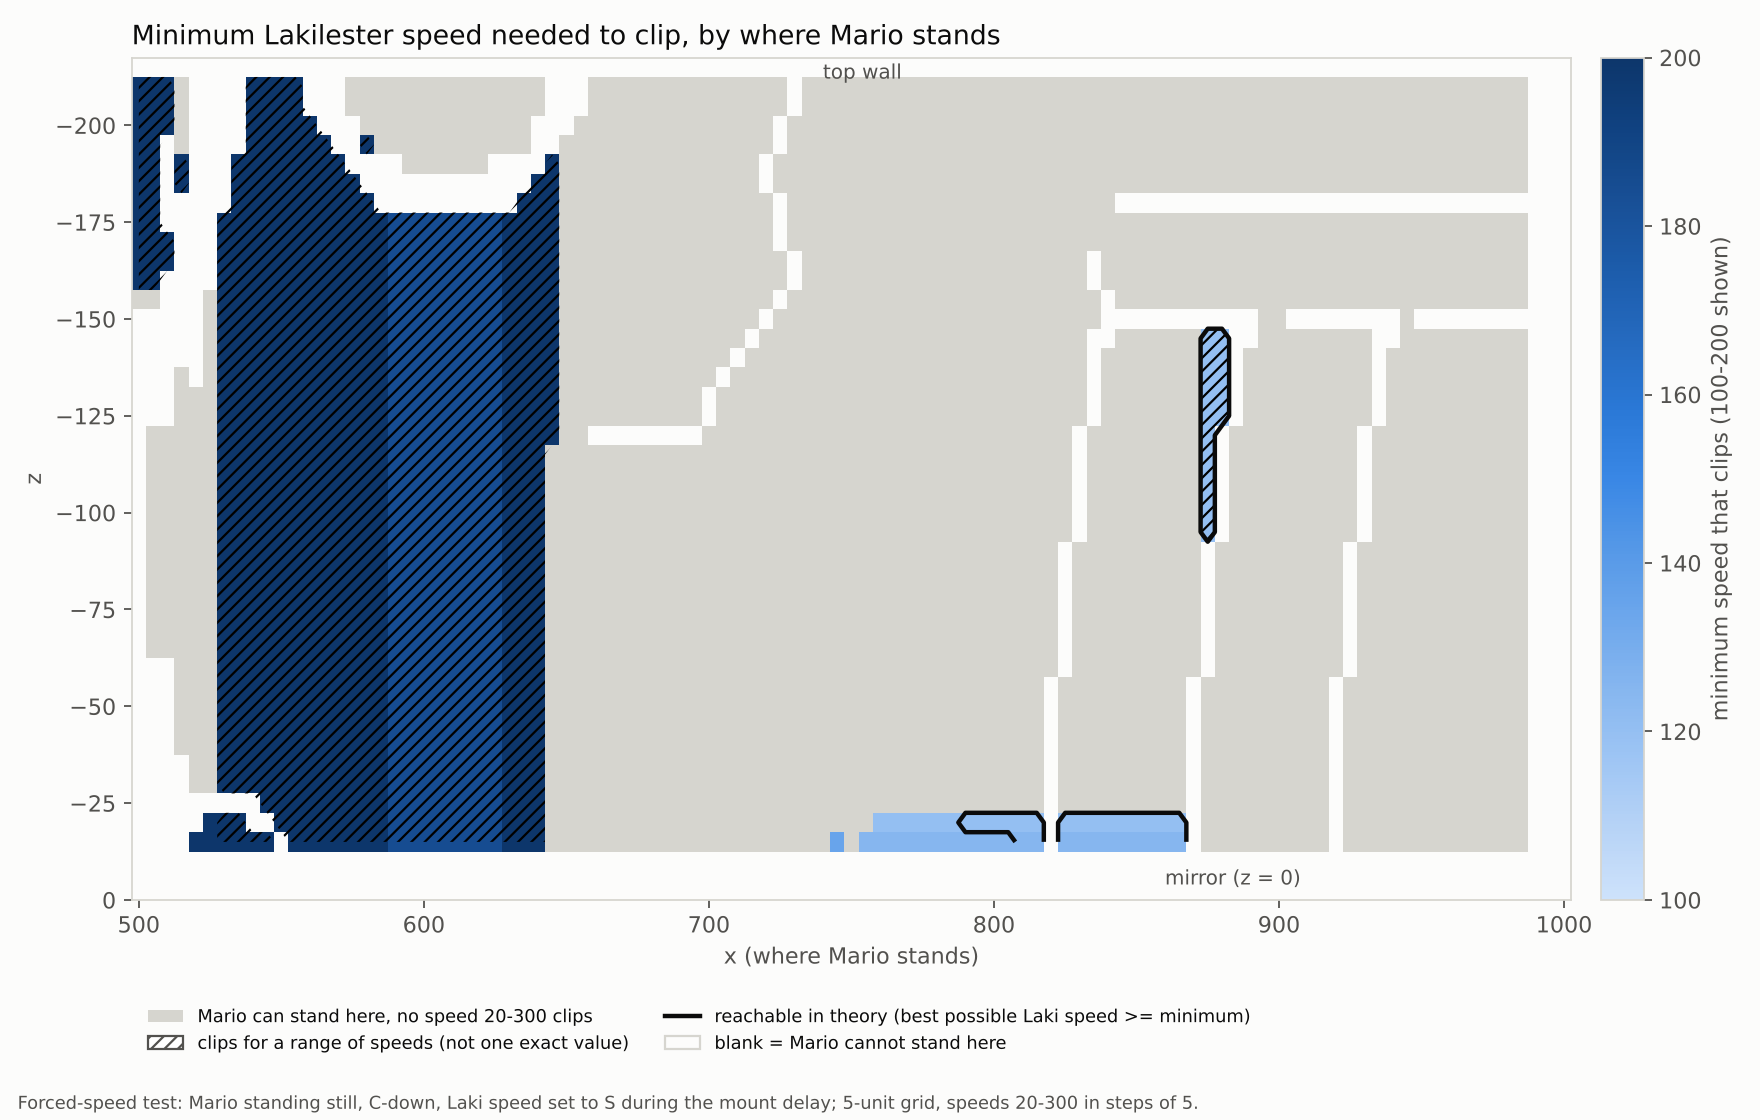
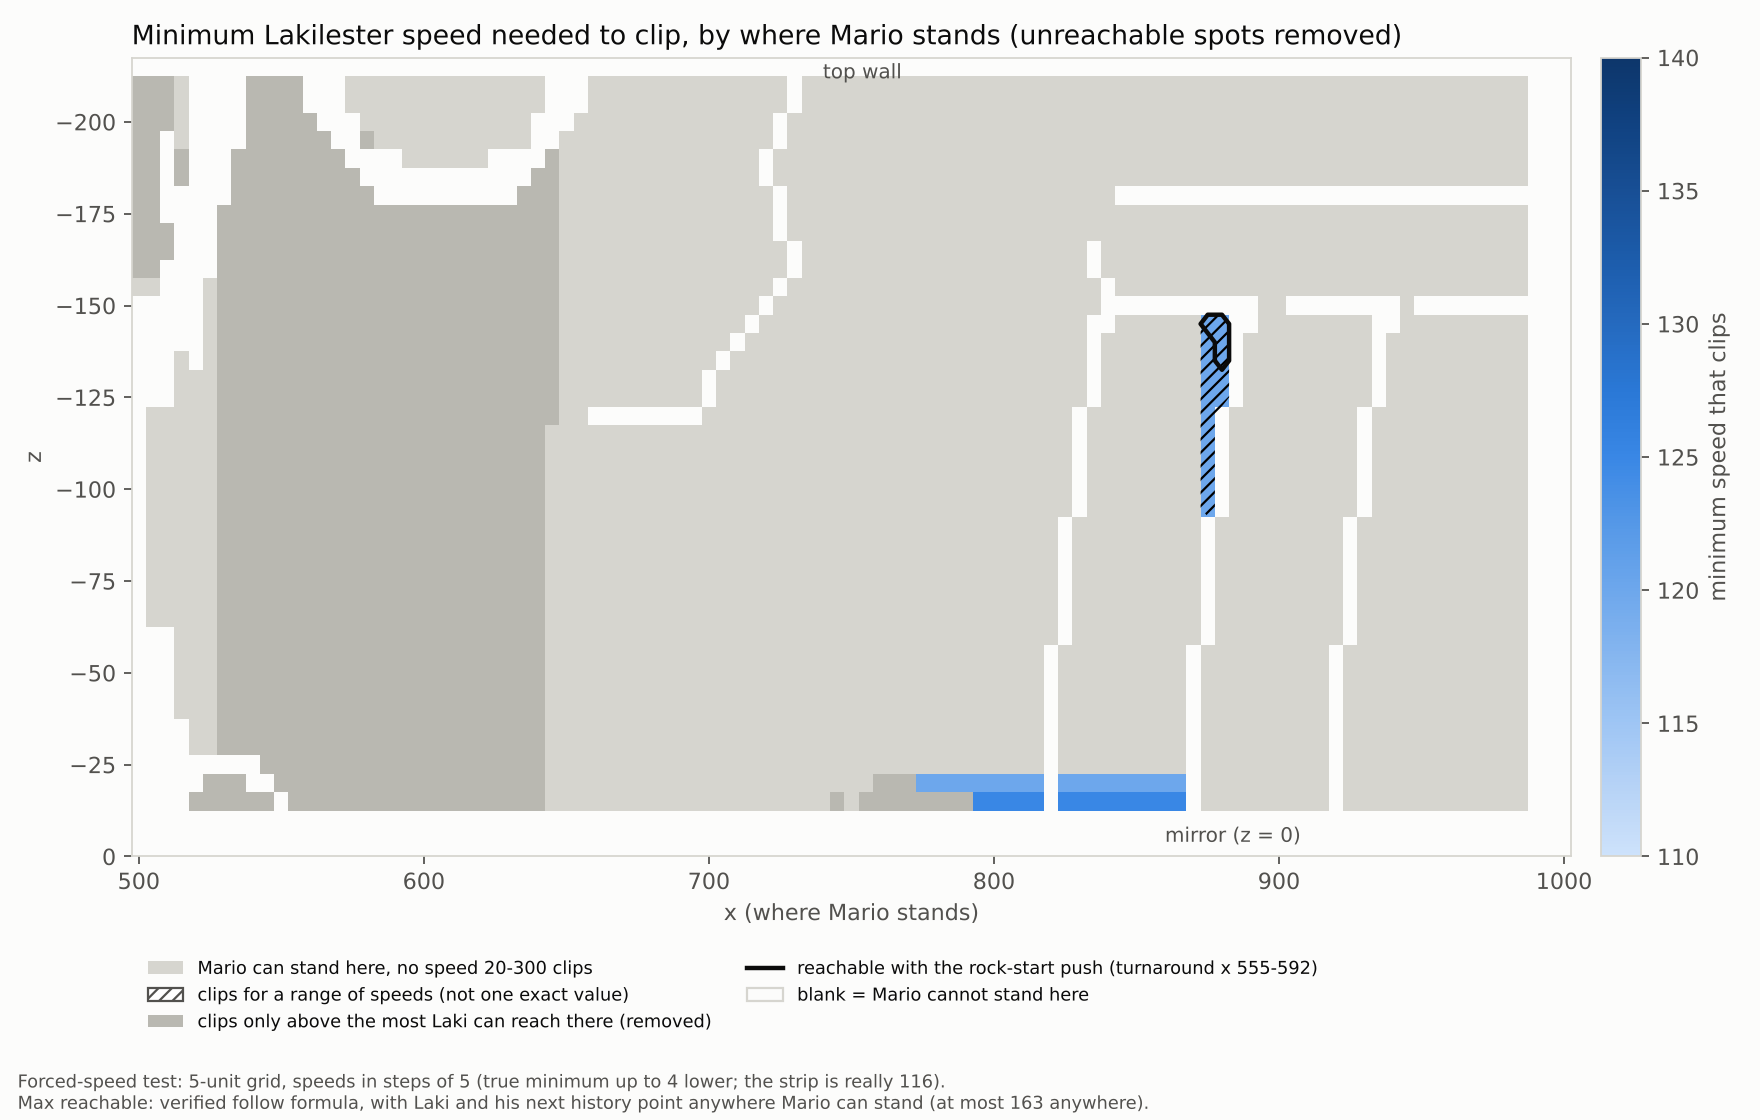
reverse mirror clip: remove spots above the maximum reachable Laki speed from the map
Claude-Session: https://claude.ai/code/session_01PAYGgAFM6inphVCTM8p258

diff --git a/pm-kooper-bot/minspeed_map.py b/pm-kooper-bot/minspeed_map.py
@@ -25,7 +25,9 @@ for r in rows:
             for a, b in zip(S, S[1:]):
                 run = run + 1 if b == a + 5 else 1; best = max(best, run)
             RANGE[j, i] = best >= 4
-# theoretical best speed for Mario at each spot
+# theoretical best speed for Mario at each spot: Lakilester can only turn around at a point of Mario's history, so
+# both his position L and his next history point H range over spots where Mario can stand (5-unit grid). For a given
+# L the best H is the farthest one (dmax): speed = 0.25*dM + dmax/16 if dmax > dM else 0.25*dM.
 tris = [t['v'] for c in json.load(open(col))['colliders'] for t in c['tris'] if t['n'][1] > 0.5]
 def has_floor(x, z):
     for (x1, _, z1), (x2, _, z2), (x3, _, z3) in tris:
@@ -34,19 +36,24 @@ def has_floor(x, z):
         a = ((z2 - z3) * (x - x3) + (x3 - x2) * (z - z3)) / dd; b = ((z3 - z1) * (x - x3) + (x1 - x3) * (z - z3)) / dd
         if min(a, b, 1 - a - b) >= -1e-6: return True
     return False
-LAKI = [(x, z) for x in range(470, 1001, 10) for z in range(-220, -5, 10) if has_floor(x, z)]
-ENTRIES = [(985, -205), (987, -165), (980, -20), (505, -205), (505, -20), (740, -212)]
-def speed(lx, lz, mx, mz, hx, hz):
-    dM = math.hypot(lx - mx, lz - mz); d = math.hypot(lx - hx, lz - hz)
-    s = 0.25 * dM if dM >= 50 else 3.0
-    if s < d: s = 0.25 * d if s >= 0.25 * d else s + d / 16
-    return s
-BEST = np.full_like(MIN, np.nan)
+SP = np.array([(x, z) for j, z in enumerate(zs) for i, x in enumerate(xs) if STAND[j, i]], float)
+DMAX = np.array([np.hypot(SP[:, 0] - lx, SP[:, 1] - lz).max() for lx, lz in SP])
+ROCK = np.array([[555.0, -13.0], [592.0, -13.0]])          # turnaround with the rock start (history fill)
+ROCK_DMAX = np.array([np.hypot(SP[:, 0] - lx, SP[:, 1] - lz).max() for lx, lz in ROCK])
+def best_from(L, dmax, mx, mz):
+    dM = np.hypot(L[:, 0] - mx, L[:, 1] - mz)
+    s = np.where(dmax > dM, 0.25 * dM + dmax / 16, 0.25 * dM)
+    return s.max()
+BEST = np.full_like(MIN, np.nan); BEST_ROCK = np.full_like(MIN, np.nan)
 for j, z in enumerate(zs):
     for i, x in enumerate(xs):
         if not np.isnan(MIN[j, i]):
-            BEST[j, i] = max(speed(lx, lz, x, z, hx, hz) for lx, lz in LAKI for hx, hz in ENTRIES)
-REACH = (~np.isnan(MIN)) & (BEST >= MIN)
+            BEST[j, i] = best_from(SP, DMAX, x, z); BEST_ROCK[j, i] = best_from(ROCK, ROCK_DMAX, x, z)
+TOL = 4                                                    # 5-step grid: the true minimum can be up to 4 lower
+OVER = (~np.isnan(MIN)) & (MIN - TOL > BEST)               # needs more than Laki can ever reach there
+REACH = (~np.isnan(MIN)) & (MIN - TOL <= BEST_ROCK)        # reachable with the rock-start route
+print('room-wide max possible speed at any clip spot: %.1f' % np.nanmax(BEST))
+MIN = np.where(OVER, np.nan, MIN); RANGE = RANGE & ~OVER
 ramp = ['#cde2fb', '#b7d3f6', '#9ec5f4', '#86b6ef', '#6da7ec', '#5598e7', '#3987e5', '#2a78d6', '#256abf', '#1c5cab', '#184f95', '#104281', '#0d366b']
 cmap = LinearSegmentedColormap.from_list('blue', ramp)
 INK, INK2, SURF = '#0b0b0b', '#52514e', '#fcfcfb'
@@ -54,9 +61,11 @@ plt.rcParams.update({'font.family': 'DejaVu Sans', 'font.size': 10, 'text.color'
                      'xtick.color': INK2, 'ytick.color': INK2, 'axes.edgecolor': '#d6d5cf'})
 fig, ax = plt.subplots(figsize=(11, 7.0), dpi=160, facecolor=SURF)
 ax.set_facecolor(SURF)
-G = np.where(STAND & np.isnan(MIN), 1.0, np.nan)
+G = np.where(STAND & np.isnan(MIN) & ~OVER, 1.0, np.nan)
+GO = np.where(OVER, 1.0, np.nan)
 ax.pcolormesh(xs, zs, G, cmap=LinearSegmentedColormap.from_list('g', ['#d6d5cf', '#d6d5cf']), shading='nearest')
-vmin, vmax = 100, 200
+ax.pcolormesh(xs, zs, GO, cmap=LinearSegmentedColormap.from_list('o', ['#b9b8b1', '#b9b8b1']), shading='nearest')
+vmin, vmax = 110, 140
 im = ax.pcolormesh(xs, zs, MIN, cmap=cmap, vmin=vmin, vmax=vmax, shading='nearest')
 ax.contourf(xs, zs, RANGE.astype(float), levels=[0.5, 1.5], colors='none', hatches=['////'])
 if REACH.any():
@@ -65,19 +74,20 @@ ax.set_xlim(497.5, 1002.5); ax.set_ylim(-217.5, 0); ax.invert_yaxis()
 ax.text(860, -4, 'mirror (z = 0)', color=INK2, fontsize=9)
 ax.text(740, -216, 'top wall', color=INK2, fontsize=9, va='top')
 ax.set_xlabel('x (where Mario stands)'); ax.set_ylabel('z')
-ax.set_title('Minimum Lakilester speed needed to clip, by where Mario stands', loc='left', fontsize=12)
-cb = fig.colorbar(im, ax=ax, fraction=0.03, pad=0.02); cb.set_label('minimum speed that clips (100-200 shown)', color=INK2)
+ax.set_title('Minimum Lakilester speed needed to clip, by where Mario stands (unreachable spots removed)', loc='left', fontsize=12)
+cb = fig.colorbar(im, ax=ax, fraction=0.03, pad=0.02); cb.set_label('minimum speed that clips', color=INK2)
 cb.outline.set_edgecolor('#d6d5cf')
 from matplotlib.patches import Patch
 from matplotlib.lines import Line2D
 ax.legend(handles=[Patch(facecolor='#d6d5cf', label='Mario can stand here, no speed 20-300 clips'),
                    Patch(facecolor='white', edgecolor=INK2, hatch='////', label='clips for a range of speeds (not one exact value)'),
-                   Line2D([], [], color=INK, lw=2, label='reachable in theory (best possible Laki speed >= minimum)'),
+                   Patch(facecolor='#b9b8b1', label='clips only above the most Laki can reach there (removed)'),
+                   Line2D([], [], color=INK, lw=2, label='reachable with the rock-start push (turnaround x 555-592)'),
                    Patch(facecolor=SURF, edgecolor='#d6d5cf', label='blank = Mario cannot stand here')],
           loc='upper left', bbox_to_anchor=(0, -0.11), ncol=2, fontsize=8, frameon=False)
-fig.text(0.01, 0.01, 'Forced-speed test: Mario standing still, C-down, Laki speed set to S during the mount delay; 5-unit grid, speeds 20-300 in steps of 5.', fontsize=8, color=INK2)
-fig.tight_layout(rect=(0, 0.03, 1, 1))
+fig.text(0.01, 0.01, 'Forced-speed test: 5-unit grid, speeds in steps of 5 (true minimum up to 4 lower; the strip is really 116).\nMax reachable: verified follow formula, with Laki and his next history point anywhere Mario can stand (at most %.0f anywhere).' % np.nanmax(BEST), fontsize=8, color=INK2)
+fig.tight_layout(rect=(0, 0.045, 1, 1))
 fig.savefig(out, facecolor=SURF)
 n = int((~np.isnan(MIN)).sum())
-print('spots that clip:', n, ' min speed overall:', np.nanmin(MIN), ' reachable spots:', int(REACH.sum()))
-for j, i in zip(*np.where(REACH)): print('  reachable: Mario (%d, %d) needs %d, best %.1f, range %s' % (xs[i], zs[j], MIN[j, i], BEST[j, i], RANGE[j, i]))
+print('spots that clip:', n, 'removed (unreachable):', int(OVER.sum()), ' min speed overall:', np.nanmin(MIN), ' reachable spots:', int(REACH.sum()))
+for j, i in list(zip(*np.where(REACH)))[:0]: print('  reachable: Mario (%d, %d) needs %d, best %.1f, range %s' % (xs[i], zs[j], MIN[j, i], BEST[j, i], RANGE[j, i]))

diff --git a/pm-kooper-bot/README.md b/pm-kooper-bot/README.md
@@ -440,3 +440,9 @@ The current route's turnaround is near the rock (x 555–600), and the pre-push 
   - If Laki starts low (y −40), he spends 1–3 frames capped at 6 while he climbs above Mario. A high next history point (Mario recorded mid-jump) shortens that.
   - Mario at (878, −100) peaks at only 107–113.
   - So the clip is possible only at the far corner of the strip, on one frame, with about 0–2 speed to spare.
+
+**Minimum-speed map with unreachable spots removed** (`minspeed_map.py`):
+- A spot is greyed out when its minimum (less 4 for the 5-step grid) is above the most Laki can reach with Mario standing there. That limit uses the verified formula, with Laki's position and his next history point both limited to spots where Mario can stand (history points are Mario's positions). At most 163 anywhere.
+- 862 of 910 clipping spots are removed, including the whole 185–245 block on the left.
+- **Left:** the stair strip, and the exact-speed band against the mirror at x 770–865.
+- The outline marks where the minimum is within reach with the rock-start route (turnaround x 555–592): only the top end of the strip, about x 875–880, z −130 to −145.
